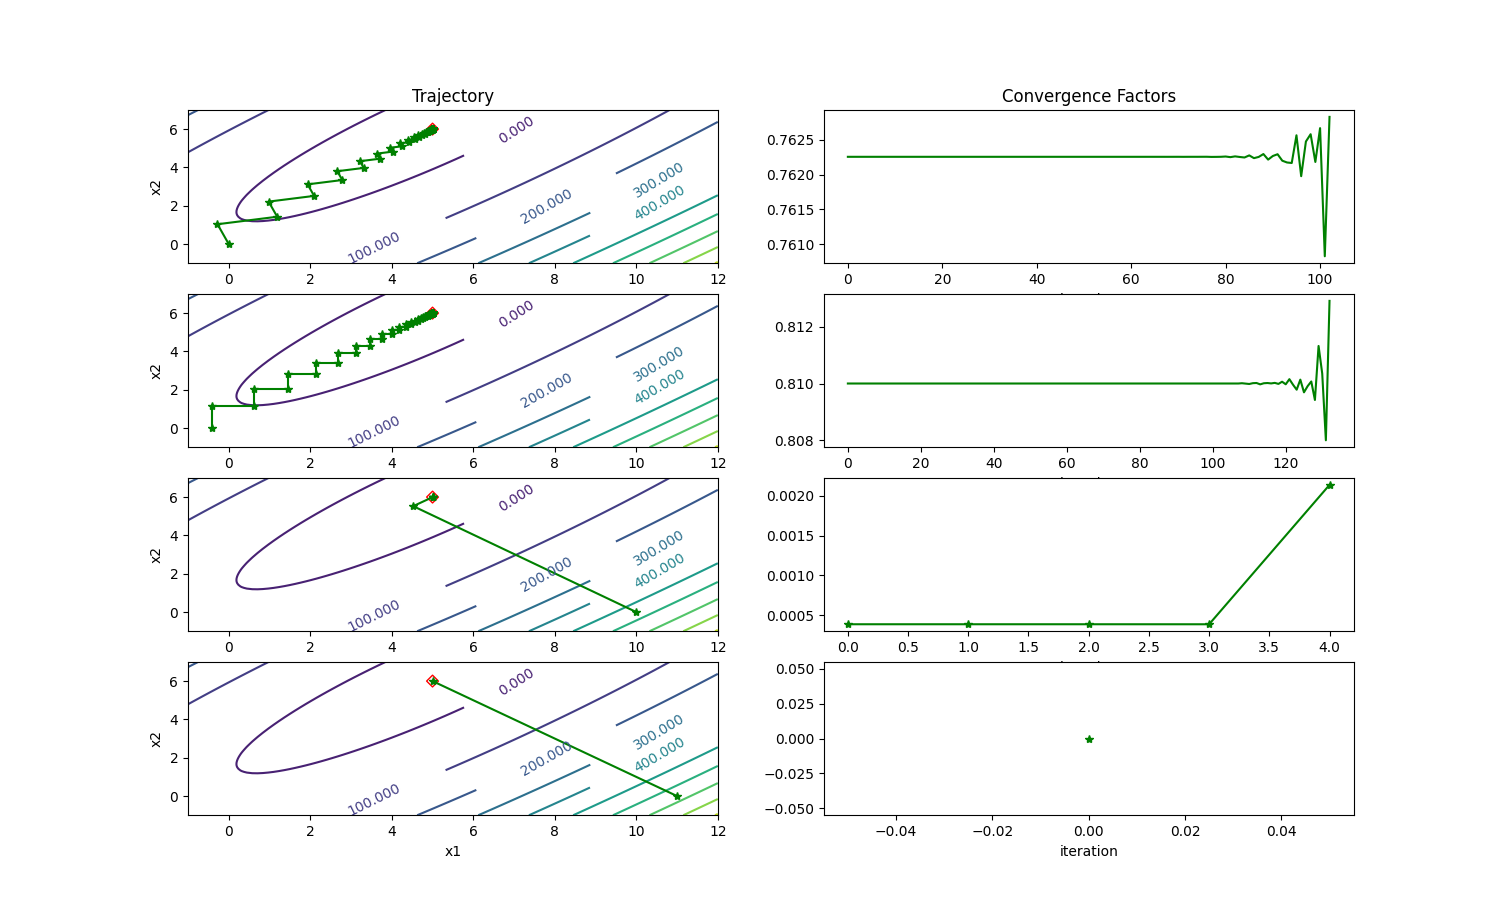
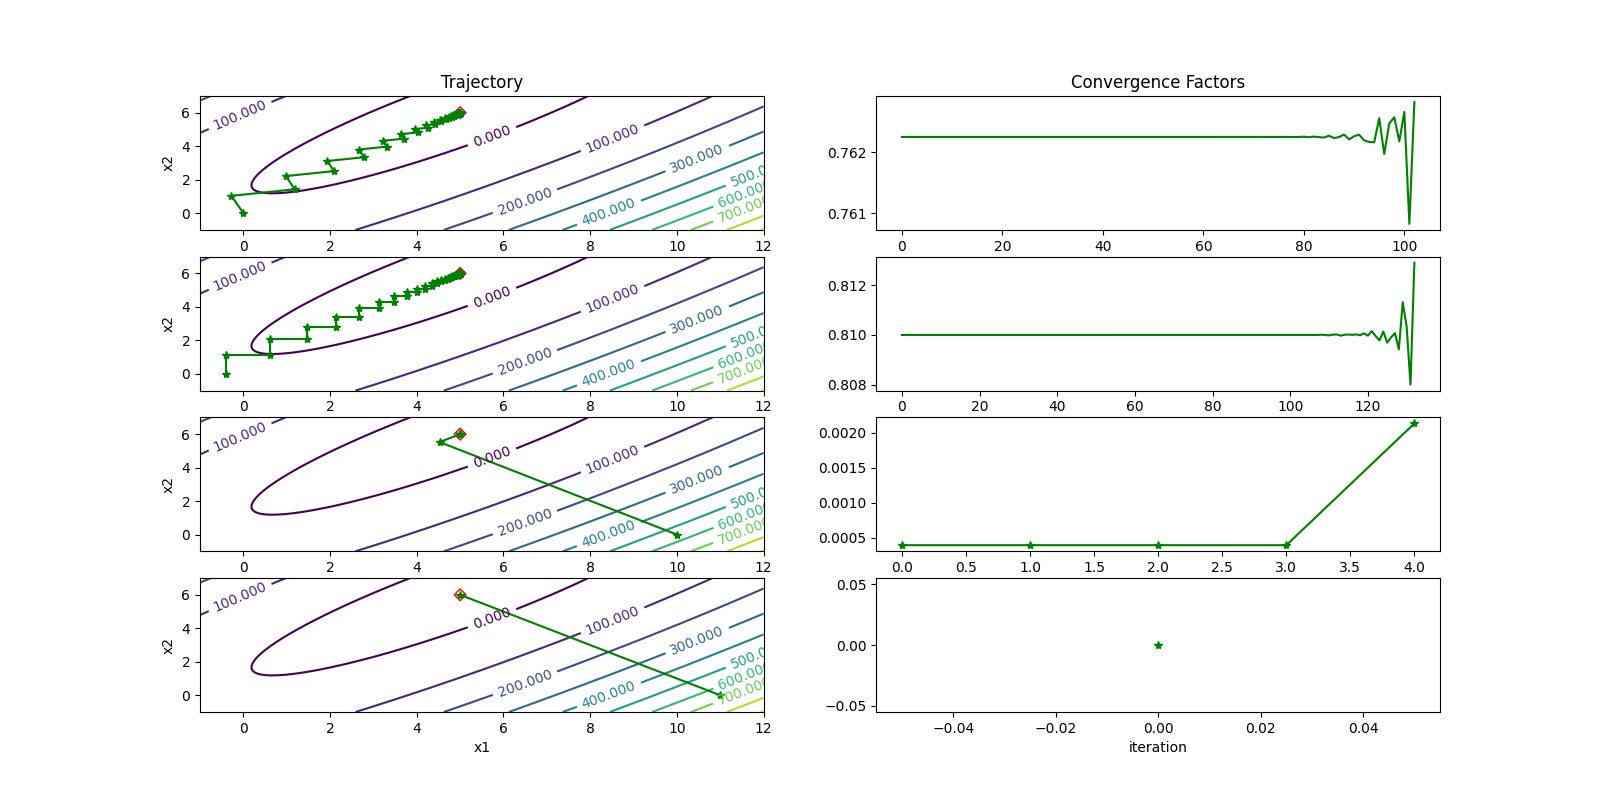
5.9

diff --git a/5-9.py b/5-9.py
@@ -1,0 +1,102 @@
+import numpy as np
+from math import log
+import matplotlib.pyplot as plt
+
+from draw import draw_trajectory
+
+def func(x):
+    return 100*(x[1]-x[0]**2)**2 + (1-x[0])**2
+
+def gradient(x):
+    return np.array([-400*x[0]*(x[1]-x[0]**2) + 2*x[0] - 2,
+                     200*(x[1]-x[0]**2)])
+
+def hessian(x):
+    return np.array([
+            [
+                1200*x[0]**2 - 400*x[1] + 2,
+                -400 * x[0]
+            ], [
+                -400*x[0],
+                200
+            ]])
+
+def backtracking_line_search(x, p):
+    alpha = 1
+    gamma = 0.5
+    rho = 1e-4
+
+    g = gradient(x)
+    f = func(x)
+    # import pdb; pdb.set_trace()
+    while func(x+alpha*p) > f + rho*np.dot(g, p)*alpha:
+        alpha *= gamma
+    return alpha
+
+def newton(x):
+    states = [{'x': x, 'y': func(x)}]
+    while True:
+        g = gradient(x)
+        if np.linalg.norm(g) < 1e-5:
+            break
+
+        G = hessian(x)
+        s = - np.dot(np.linalg.inv(G), g)
+        alpha = backtracking_line_search(x, s)
+        x += alpha*s
+
+        y = func(x)
+        # import pdb; pdb.set_trace()
+        if np.isnan(y):
+            print('!!! out of domain')
+            break
+        states.append({'x': tuple(x), 'y': y, 'alpha': alpha})
+        print(states[-1])
+
+    return states
+
+def steepest_descent(x):
+    states = []
+
+    y = y_prev = func(x)
+    while True:
+        states.append({
+            'x': tuple(x),
+            'y': y,
+        })
+        print(states[-1])
+
+        g = gradient(x)
+        p = -g
+        G = hessian(x)
+        if np.linalg.norm(g) < 1e-5:
+            break
+
+        # alpha = - np.dot(p, g) / np.linalg.multi_dot([p, G, p])
+        alpha = backtracking_line_search(x, p)
+        x += alpha * p
+        y_prev = y
+        y = func(x)
+
+    return states
+
+if __name__ == '__main__':
+    contour_ranges = {
+        (1.2, 1.2): ([0.8, 0.8], [1.5, 1.5]),
+        (-1.2, 1): ([-1.3,-1.3], [1.2, 1.2])
+    }
+    contour_levels = [2**i for i in range(-1,10)]
+
+    fig, ax = plt.subplots(2, 2, figsize=(16,8))
+    for idx, x in enumerate([(1.2, 1.2), (-1.2, 1)]):
+        x_min, x_max = contour_ranges[x]
+
+        states = steepest_descent(x)
+        draw_trajectory(*zip(*[i['x'] for i in states]), x_min, x_max, func, ax[idx][0], contour_levels)
+        ax[idx][0].set_title('SteepestDescent (iterations:{})'.format(len(states)-1))
+
+        states = newton(x)
+        draw_trajectory(*zip(*[i['x'] for i in states]), x_min, x_max, func, ax[idx][1], contour_levels)
+        ax[idx][1].set_title('Newton (iterations:{})'.format(len(states)-1))
+
+    plt.show()

diff --git a/5-6.py b/5-6.py
@@ -12,7 +12,7 @@ def gradient(x):
 def hessian(x):
     return np.array([[10, -9], [-9, 10]])
 
-def steepestDescent(x, OPTIM=-22):
+def steepest_descent(x, OPTIM=-22):
     states = []
 
     y = y_prev = func(x)
@@ -39,11 +39,11 @@ def steepestDescent(x, OPTIM=-22):
 if __name__ == '__main__':
     x_min = [-1, -1]
     x_max = [12, 7]
-    fig, ax = plt.subplots(4,2)
+    fig, ax = plt.subplots(4,2,figsize=(16,8))
     ax[0][0].set_title('Trajectory')
     ax[0][1].set_title('Convergence Factors')
     for i, x in enumerate([[0,0], [-0.4, 0], [10, 0], [11, 0]]):
-        states = steepestDescent(x)
+        states = steepest_descent(x)
         draw_trajectory(*zip(*[i['x'] for i in states]), x_min, x_max, func, ax[i][0])
         draw_conv_factors([i['conv_factor'] for i in states][1:], ax[i][1])
     plt.show()

diff --git a/draw.py b/draw.py
@@ -2,16 +2,16 @@ import matplotlib.pyplot as plt
 import numpy as np
 
 
-def draw_trajectory(x1, x2, x_min, x_max, func, ax):
+def draw_trajectory(x1, x2, x_min, x_max, func, ax, levels=10):
     ax.set_xlabel('x1')
     ax.set_ylabel('x2')
 
     # contour
-    x_steps = np.linspace(x_min, x_max, num=100)
+    x_steps = np.linspace(x_min, x_max, num=1000)
     x_meshgrid = np.meshgrid(*zip(*x_steps))
     # import pdb; pdb.set_trace()
     y_meshgrid = func(x_meshgrid)
-    CS = ax.contour(x_meshgrid[0], x_meshgrid[1], y_meshgrid, 8, extend='both')
+    CS = ax.contour(x_meshgrid[0], x_meshgrid[1], y_meshgrid, levels, extend='both')
     ax.clabel(CS, inline=1, fontsize=10)
 
     # trajectory

diff --git a/5-8.py b/5-8.py
@@ -62,7 +62,7 @@ if __name__ == '__main__':
     x_max = (80, 100)
     alphas = {}
 
-    fig, ax = plt.subplots(2, 4)
+    fig, ax = plt.subplots(2, 4, figsize=(16,8))
 
     for idx_mu, mu in enumerate((0.1, 1)):
         for idx, x in enumerate([(8, 90), (1, 40), (15, 68.69), (10, 20)]):
